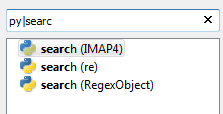
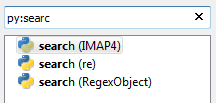
20130814 win32 release, updated documentation for docset filter

Changed region(s): [[0.0, 0.3204, 1.0, 1.0], [0.0, 0.0583, 1.0, 0.2913]]

diff --git a/download.html b/download.html
@@ -24,8 +24,8 @@ layout: default
             Simply decompress the .zip file and run zeal.exe from any place.
         </p>
       </div>
-      <a class="btn btn-small" href="https://bitbucket.org/jerzykozera/zeal-win32-binary-downloads/downloads/zeal-20130810.zip">
-        Download zeal-20130810.zip (33MB) »
+      <a class="btn btn-small" href="https://bitbucket.org/jerzykozera/zeal-win32-binary-downloads/downloads/zeal-20130814.zip">
+        Download zeal-20130814.zip (33MB) »
       </a>
       <div class="clearfix"></div>
     </div>
@@ -111,12 +111,12 @@ layout: default
       After installing/compiling, to quickly download documentation sets, click 'Edit',&nbsp;'Options',&nbsp;'Docsets',&nbsp;'Download...'.</p>
     <h2>Docset filter</h2>
     <p>You can filter the search results to a specific (or a set of specific) docsets.</p>
-    <p>The docset filter and the search query are delimited by a pipe character (|).</p>
+    <p>The docset filter and the search query are delimited by a colon character (:).</p>
     <p>Examples:</p>
     <ul>
-        <li>ruby|set_x will search all docsets containing ruby (e.g. ironruby, ruby and ruby2) for set_x</li>
+        <li>ruby:set_x will search all docsets containing ruby (e.g. ironruby, ruby and ruby2) for set_x</li>
         <li>set_x will search all docsets for set_x</li>
-        <li>||set_x will search all docsets for |set_x.</li>
+        <li>::set_x will search all docsets for :set_x.</li>
     </ul>
     <img src="/static/img/search_filter.png" />
     <div class="clearfix"></div>
